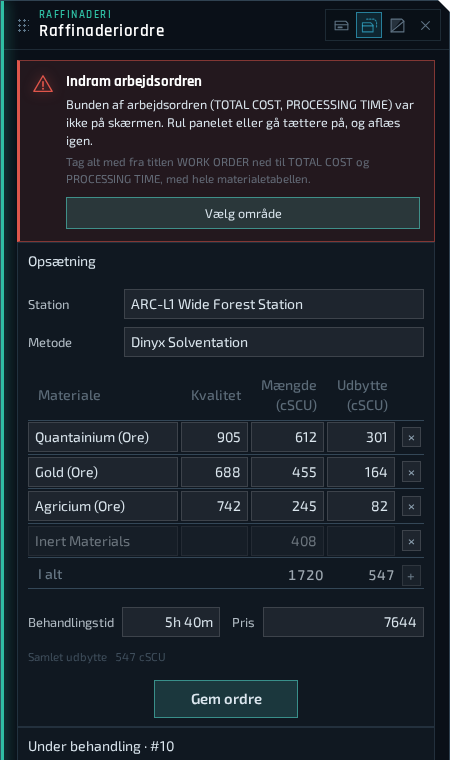
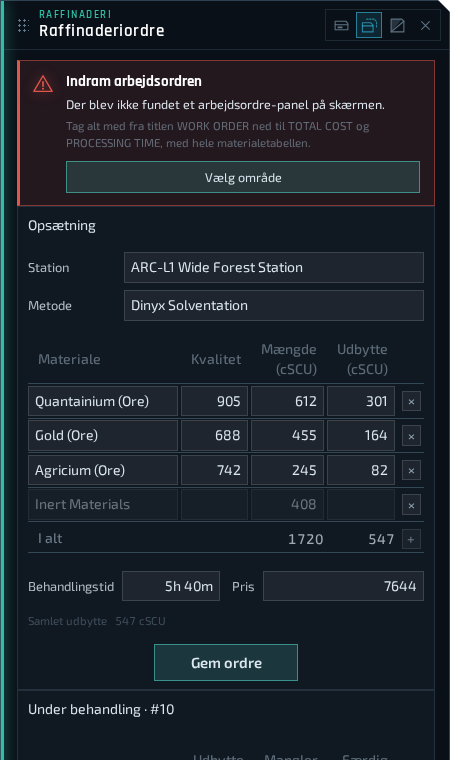
Help: a long work order is read in several goes
The amber Scroll down and read again card gets its own section and
screenshot (en+da). The red Frame the work order shot now shows a
missing panel, as the bottom case no longer uses it.

Claude-Session: https://claude.ai/code/session_01N8m5xeVdG9FyChw6HwAHkV

diff --git a/frontend/src/help/content/da/client-screen-reading.md b/frontend/src/help/content/da/client-screen-reading.md
@@ -24,9 +24,13 @@ På Windows viser en gul ramme om spillet, at vinduet bliver optaget. Windows 11
 
 Du behøver ikke indramme panelet selv. Første gang du trykker `F8`, læser klienten hele skærmen og finder arbejdsordren på dens tekst. Et ravgult kort øverst i raffinaderivinduet spørger så **Brug dette område til de næste aflæsninger?** Det er hurtigere og mere pålideligt kun at aflæse det område: tryk `Brug dette område` eller `Nej tak`. Stationens navn læses selv fra toppen af skærmen.
 
-Er panelet ikke helt på skærmen, gemmes intet. Et rødt kort, **Indram arbejdsordren**, siger, hvad der manglede, f.eks. bunden med **TOTAL COST** og **PROCESSING TIME**. Rul panelet eller gå tættere på, og tryk `F8` igen.
+En lang arbejdsordre går ud over bunden af skærmen. Et ravgult kort, **Rul ned og aflæs igen**, siger så, at **TOTAL COST** og **PROCESSING TIME** ikke blev læst. Rul arbejdsordren ned, og tryk `Aflæs flere rækker`: de nye rækker lægges til dem, der allerede er læst. En lang ordre kan tage tre eller fire aflæsninger. Det virker også med et indrammet område.
 
-![Raffinaderivinduet, når panelets bund manglede](screens/client-refinery-guide.png)
+![Raffinaderivinduet beder om endnu en aflæsning af en lang arbejdsordre](screens/client-refinery-more.png)
+
+Findes der ingen arbejdsordre, eller mangler dens titel eller materialetabel, gemmes intet. Et rødt kort, **Indram arbejdsordren**, siger, hvad der manglede. Gå tættere på eller vend dig mod terminalen, og tryk `F8` igen.
+
+![Raffinaderivinduet, når det ikke fandt nogen arbejdsordre](screens/client-refinery-guide.png)
 
 Vil du indramme det i hånden, så tryk `Vælg område` dér, eller gå til `Indstillinger` › `Skærmaflæsning` › **Raffinaderiordre-område** › `Indram område`. Træk fra titlen **WORK ORDER** ned til **TOTAL COST** og **PROCESSING TIME**, med hele materialetabellen indenfor.
 

diff --git a/frontend/src/help/content/en/client-screen-reading.md b/frontend/src/help/content/en/client-screen-reading.md
@@ -24,9 +24,13 @@ On Windows a yellow border round the game shows that the window is being capture
 
 You don't have to frame the panel yourself. The first time you press `F8`, the client reads the whole screen and finds the work order by its text. An amber card at the top of the refinery window then asks **Use this area for the next reads?** Reads of just that area are faster and more reliable: press `Use this area`, or `No thanks`. The station name is read from the top of the screen by itself.
 
-If the panel isn't all on screen, nothing is saved. A red card, **Frame the work order**, says what was missing, for example the bottom with **TOTAL COST** and **PROCESSING TIME**. Scroll the panel or move closer, and press `F8` again.
+A long work order goes past the bottom of the screen. An amber card, **Scroll down and read again**, then says that **TOTAL COST** and **PROCESSING TIME** were not read. Scroll the work order down and press `Read more rows`: the new rows are added to the ones already read. A long order can take three or four reads. This works with a framed area too.
 
-![The refinery window when the panel's bottom was missing](screens/client-refinery-guide.png)
+![The refinery window asking for another read of a long work order](screens/client-refinery-more.png)
+
+If no work order is found, or its title or materials table is missing, nothing is saved. A red card, **Frame the work order**, says what was missing. Move closer or turn to the terminal, and press `F8` again.
+
+![The refinery window when it found no work order](screens/client-refinery-guide.png)
 
 To frame it by hand, press `Pick area` there, or go to `Settings` › `Screen reading` › **Refinery order area** › `Frame area`. Drag from the **WORK ORDER** title down to **TOTAL COST** and **PROCESSING TIME**, with the whole materials table inside.
 
